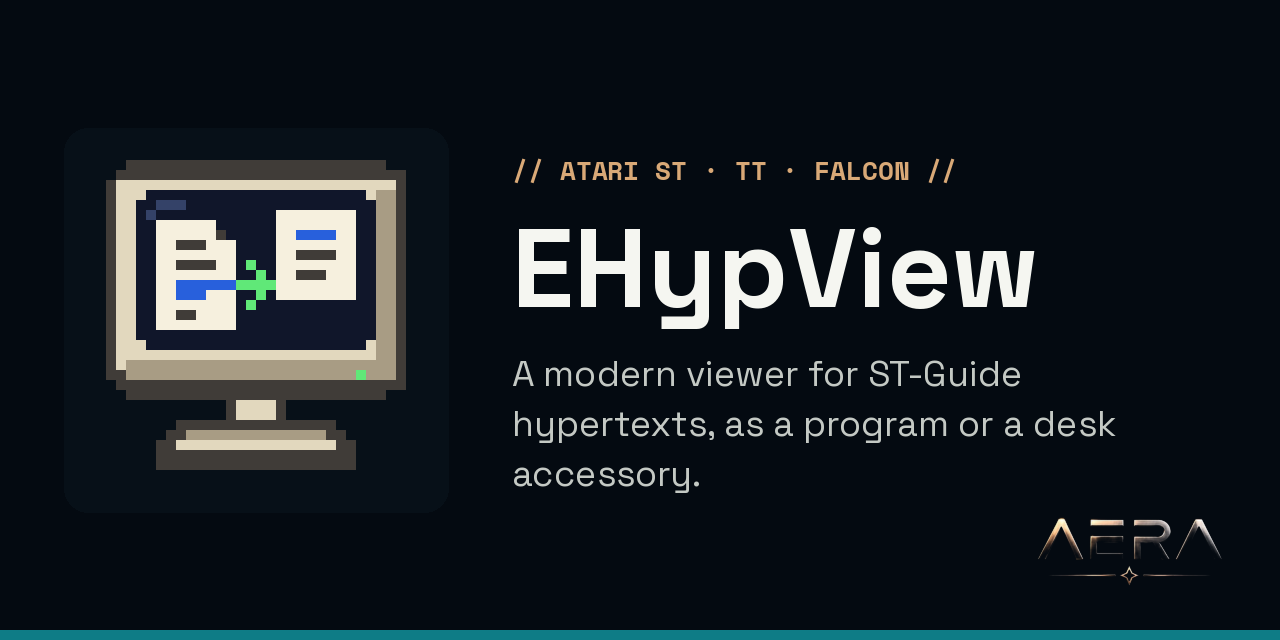
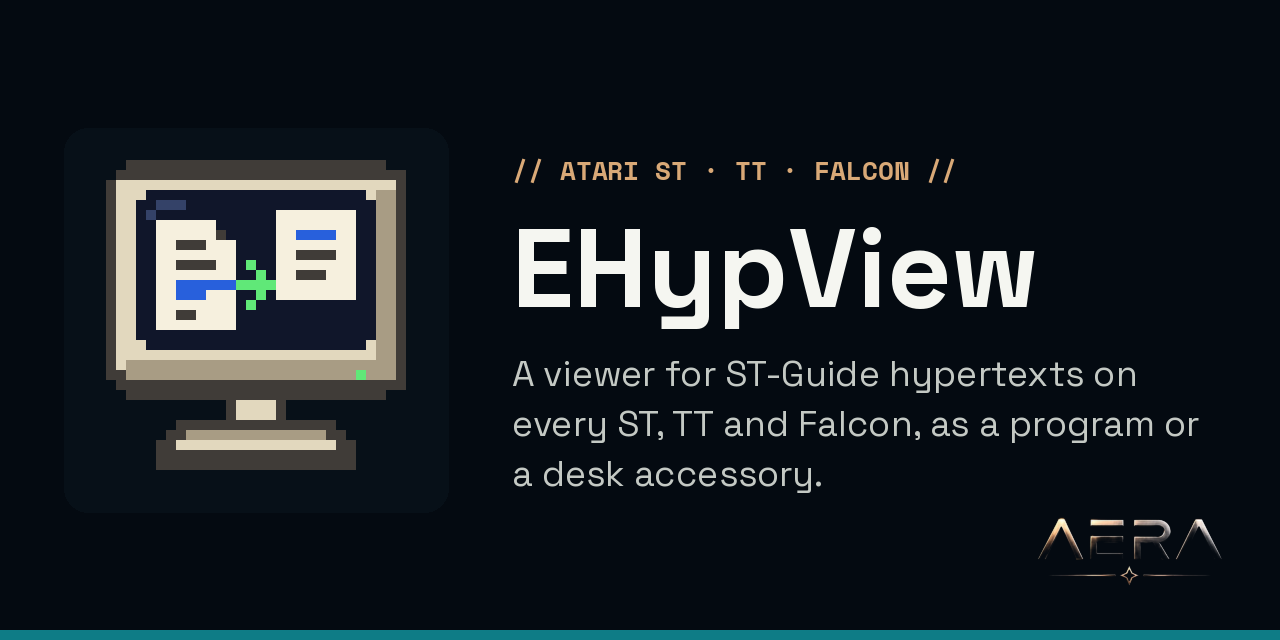
README, profile and social previews: true to the family as it is today
Erez's docs review (22 Oct), the hub's own repository:
- README: EWeb is a working browser with an ST edition, not "being
  built", and gets its icon; AERA-Gateway includes the web; brand/ names
  the AERA desktop folder icon; common/ lists dialogs and long text
  fields and the crash catcher.
- profile/README.md: EUpdate added; EWeb with its icon and what it does;
  the gateways include the web.
- Social previews (brand/social.json, drawn by mkpreview.py): EWeb for
  the ST, TT and Falcon; EHypView on every ST; AERA-Gateway with the web.

Claude-Session: https://claude.ai/code/session_01McWfUeeeAUvjhmDvN6UbnJ

Changed region(s): [[0.4062, 0.5625, 0.9375, 0.6875], [0.4062, 0.7188, 0.6562, 0.7812]]

diff --git a/README.md b/README.md
@@ -16,10 +16,10 @@ AERA app repo follows what's here, so the programs feel like one family on the A
 | <img src="brand/icons/ehypview.png" width="48" alt="EHypView icon"> | [EHypView](https://github.com/whomper/EHypView) | ST, STE, TT, Falcon | ST-Guide hypertext viewer, program or desk accessory |
 | <img src="brand/icons/claudest.png" width="48" alt="ClaudeST icon"> | [ClaudeST](https://github.com/whomper/ClaudeST) | ST, STE, TT, Falcon | claude.ai client |
 | <img src="brand/icons/eupdate.png" width="48" alt="EUpdate icon"> | [EUpdate](https://github.com/whomper/EUpdate) | Falcon, TT | GitHub releases: find repositories and owners, follow them into folders, update by hand or on a schedule |
-| | [EWeb](https://github.com/whomper/EWeb) | Falcon | web browser, being built: its CSS engine, HTTP client and measuring tools so far |
+| <img src="brand/icons/eweb.png" width="48" alt="EWeb icon"> | [EWeb](https://github.com/whomper/EWeb) | Falcon, TT (ST edition through the Pi) | web browser: pages with their stylesheets, pictures and forms; TLS on the Falcon |
 | | [EDOS](https://github.com/whomper/EDOS) | 400, 800, XL, XE | Disk Utility Package |
 | | [EFTP_XL](https://github.com/whomper/EFTP_XL) | 400, 800, XL, XE | file transfer over FujiNet |
-| | [AERA-Gateway](https://github.com/whomper/AERA-Gateway) | Raspberry Pi | the gateways for mail, calendars and contacts, FTP and Claude, and their installer |
+| | [AERA-Gateway](https://github.com/whomper/AERA-Gateway) | Raspberry Pi | the gateways for mail, calendars and contacts, FTP, the web and Claude, and their installer |
 
 ## What's here
 
@@ -29,10 +29,10 @@ AERA app repo follows what's here, so the programs feel like one family on the A
 | [`standards/ATARI-XL-GUIDELINES.md`](standards/ATARI-XL-GUIDELINES.md) | the same for the 8-bit programs (EDOS, EFTP_XL): sources and comments, the disk, keys, RESET, memory, the font, releases |
 | [`standards/GITHUB-IDENTITY.md`](standards/GITHUB-IDENTITY.md) | how the repos present themselves: colours, type, logos, README layout, names, wording, descriptions |
 | [`standards/repo-template/`](standards/repo-template/) | the files every app repo carries (README skeleton, CLAUDE.md, CI and Release workflows…) and how to move a repo over |
-| [`brand/`](brand/) | the AERA logos, the app icons, the social-preview images and the script that draws them |
+| [`brand/`](brand/) | the AERA logos, the app icons, the AERA desktop folder icon (`icons/AERA.RSC`, 16 and 256 colours), the social-preview images and the scripts that draw them |
 | [`profile/`](profile/) | the draft README for the GitHub profile page |
 | [`xl/`](xl/) | the 8-bit programs' shared tools and includes (cross assembler, tokeniser, source disk, AERA.FNT, AXEQU/AXLOAD/AXRESET/AXFONT/AXERR, release workflows), pulled in with `git subtree` |
-| [`common/`](common/) | the code the apps share, pulled into each app with `git subtree`: the C library and start-up, TLS and connections (and the Falcon's DSP), Hebrew, dates and time zones, the GEM building blocks (alerts, menus, About box, help, clipboard, drag and drop), the help front page, the build tools and the test machines |
+| [`common/`](common/) | the code the apps share, pulled into each app with `git subtree`: the C library and start-up, TLS and connections (and the Falcon's DSP), Hebrew, dates and time zones, the GEM building blocks (alerts, dialogs and long text fields, menus, About box, help, clipboard, drag and drop, the crash catcher), the help front page, the build tools and the test machines |
 
 ## Licence
 

diff --git a/profile/README.md b/profile/README.md
@@ -19,7 +19,8 @@ Music and builds: **[yaary.music](https://yaary.music)** · **[YouTube](https://
 | <img src="https://raw.githubusercontent.com/whomper/AERA-Atari/main/brand/icons/eftp.png" width="40" alt=""> | **[EFTP](https://github.com/whomper/EFTP)** | two-pane FTP, FTPS and SFTP |
 | <img src="https://raw.githubusercontent.com/whomper/AERA-Atari/main/brand/icons/ehypview.png" width="40" alt=""> | **[EHypView](https://github.com/whomper/EHypView)** | ST-Guide hypertext viewer |
 | <img src="https://raw.githubusercontent.com/whomper/AERA-Atari/main/brand/icons/claudest.png" width="40" alt=""> | **[ClaudeST](https://github.com/whomper/ClaudeST)** | claude.ai on the Atari |
-| | **[EWeb](https://github.com/whomper/EWeb)** | a web browser for the Falcon, being built |
+| <img src="https://raw.githubusercontent.com/whomper/AERA-Atari/main/brand/icons/eupdate.png" width="40" alt=""> | **[EUpdate](https://github.com/whomper/EUpdate)** | GitHub releases: follow repositories and keep them up to date (Falcon, TT) |
+| <img src="https://raw.githubusercontent.com/whomper/AERA-Atari/main/brand/icons/eweb.png" width="40" alt=""> | **[EWeb](https://github.com/whomper/EWeb)** | a web browser: pages with their stylesheets, pictures and forms |
 
 #### Atari 400 · 800 · XL · XE
 
@@ -28,5 +29,5 @@ Music and builds: **[yaary.music](https://yaary.music)** · **[YouTube](https://
 
 #### Behind the scenes
 
-- **[AERA-Gateway](https://github.com/whomper/AERA-Gateway)**: the Raspberry Pi gateways (mail, calendars and contacts, FTP, Claude) and their installer
+- **[AERA-Gateway](https://github.com/whomper/AERA-Gateway)**: the Raspberry Pi gateways (mail, calendars and contacts, FTP, the web, Claude) and their installer
 - **[AERA-Atari](https://github.com/whomper/AERA-Atari)**: how the programs look and behave, and the code they share
